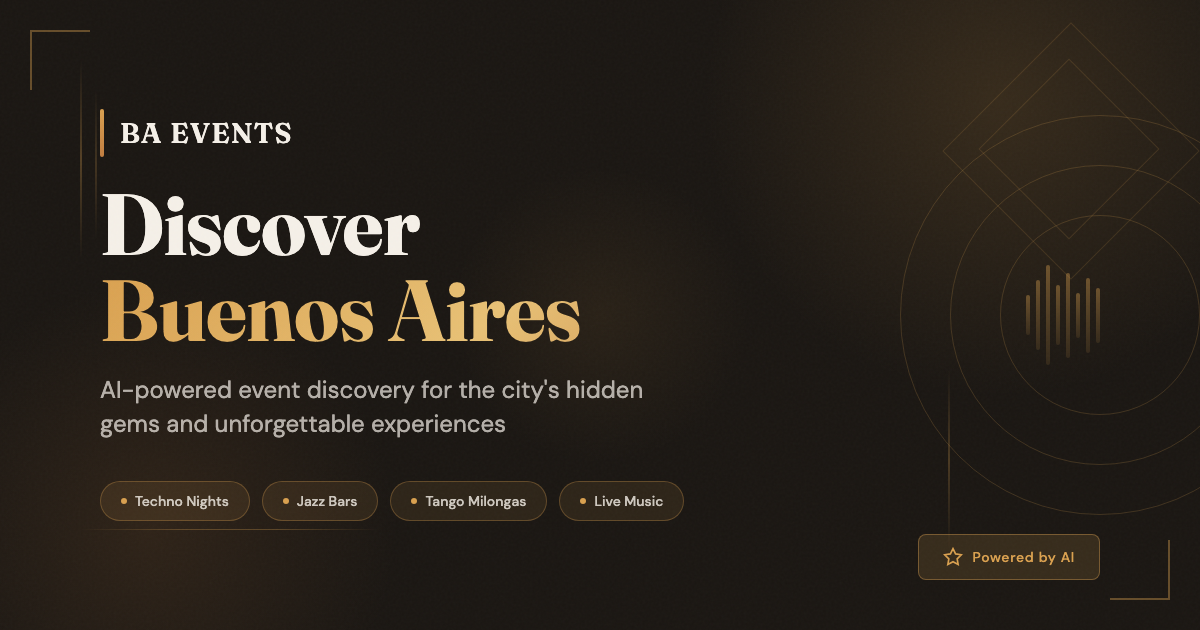
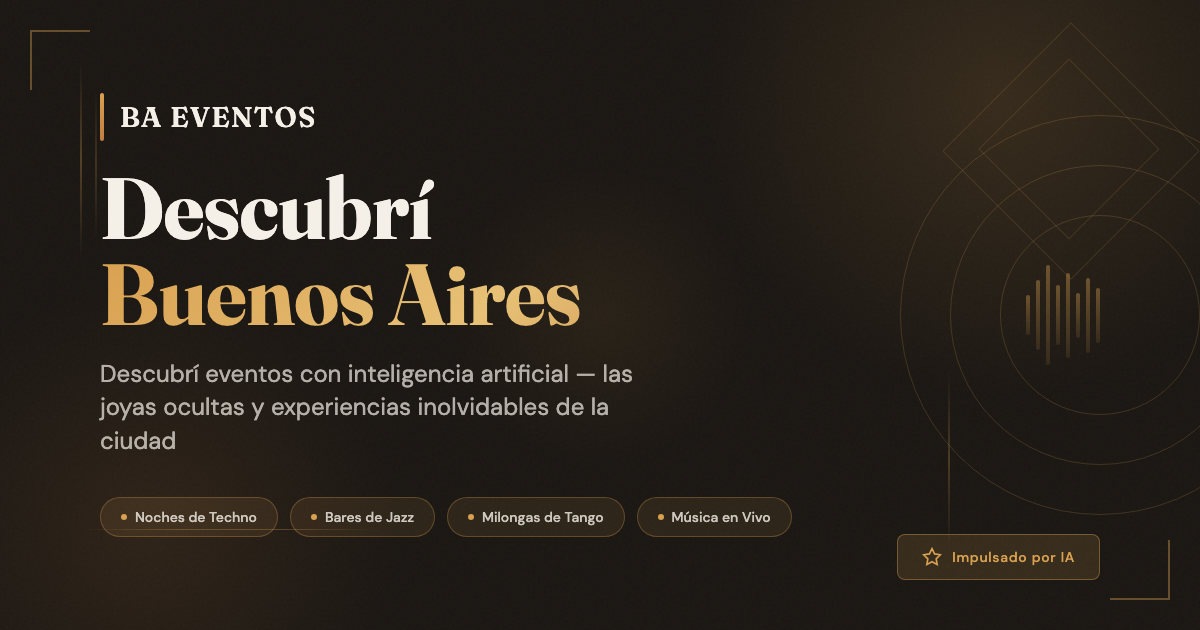
Rebrand to BA Eventos with Spanish metadata
- Change branding from "BA Events" to "BA Eventos" across all files
- Update domain from ba-events.app to baeventos.com
- Switch metadata to Spanish as default language (es_AR primary locale)
- Regenerate OG image with Spanish text and branding
- Update manifest.json, robots.txt, i18n files, MainLayout

🤖 Generated with [Claude Code](https://claude.com/claude-code)

diff --git a/src/routes/__root.tsx b/src/routes/__root.tsx
@@ -43,28 +43,28 @@ export const Route = createRootRoute({
       // Core meta tags
       { charSet: 'utf-8' },
       { name: 'viewport', content: 'width=device-width, initial-scale=1' },
-      { title: 'BA Events - Discover Buenos Aires' },
-      { name: 'description', content: 'AI-powered event discovery for Buenos Aires. Find techno nights, jazz bars, tango milongas, and more.' },
+      { title: 'BA Eventos - Descubrí Buenos Aires' },
+      { name: 'description', content: 'Descubrí eventos en Buenos Aires con inteligencia artificial. Encontrá noches de techno, bares de jazz, milongas de tango, y más.' },
       { name: 'theme-color', content: '#1a1612' },
 
       // Open Graph tags
       { property: 'og:type', content: 'website' },
-      { property: 'og:site_name', content: 'BA Events' },
-      { property: 'og:title', content: 'BA Events - Discover Buenos Aires' },
-      { property: 'og:description', content: 'AI-powered event discovery for Buenos Aires. Find techno nights, jazz bars, tango milongas, and more.' },
-      { property: 'og:image', content: 'https://ba-events.app/og-image.png' },
-      { property: 'og:url', content: 'https://ba-events.app' },
-      { property: 'og:locale', content: 'en_US' },
-      { property: 'og:locale:alternate', content: 'es_AR' },
+      { property: 'og:site_name', content: 'BA Eventos' },
+      { property: 'og:title', content: 'BA Eventos - Descubrí Buenos Aires' },
+      { property: 'og:description', content: 'Descubrí eventos en Buenos Aires con inteligencia artificial. Encontrá noches de techno, bares de jazz, milongas de tango, y más.' },
+      { property: 'og:image', content: 'https://baeventos.com/og-image.png' },
+      { property: 'og:url', content: 'https://baeventos.com' },
+      { property: 'og:locale', content: 'es_AR' },
+      { property: 'og:locale:alternate', content: 'en_US' },
 
       // Twitter Card tags
       { name: 'twitter:card', content: 'summary_large_image' },
-      { name: 'twitter:title', content: 'BA Events - Discover Buenos Aires' },
-      { name: 'twitter:description', content: 'AI-powered event discovery for Buenos Aires. Find techno nights, jazz bars, tango milongas, and more.' },
-      { name: 'twitter:image', content: 'https://ba-events.app/og-image.png' },
+      { name: 'twitter:title', content: 'BA Eventos - Descubrí Buenos Aires' },
+      { name: 'twitter:description', content: 'Descubrí eventos en Buenos Aires con inteligencia artificial. Encontrá noches de techno, bares de jazz, milongas de tango, y más.' },
+      { name: 'twitter:image', content: 'https://baeventos.com/og-image.png' },
     ],
     links: [
-      { rel: 'canonical', href: 'https://ba-events.app' },
+      { rel: 'canonical', href: 'https://baeventos.com' },
       { rel: 'preconnect', href: 'https://fonts.googleapis.com' },
       { rel: 'preconnect', href: 'https://fonts.gstatic.com', crossOrigin: 'anonymous' },
       { rel: 'stylesheet', href: 'https://fonts.googleapis.com/css2?family=Fraunces:ital,opsz,wght@0,9..144,300;0,9..144,400;0,9..144,500;0,9..144,600;0,9..144,700;1,9..144,400&family=DM+Sans:ital,wght@0,300;0,400;0,500;0,600;1,400&display=swap' },

diff --git a/src/components/MainLayout.tsx b/src/components/MainLayout.tsx
@@ -179,7 +179,7 @@ export function MainLayout({ children }: MainLayoutProps) {
             <div className="absolute -inset-1 bg-gradient-to-r from-primary/20 via-primary/10 to-transparent blur-sm" />
             <div className="relative flex items-center gap-2">
               <div className="w-1 h-6 bg-gradient-to-b from-primary to-accent rounded-full" />
-              <span className="font-display text-lg font-semibold">BA Events</span>
+              <span className="font-display text-lg font-semibold">BA Eventos</span>
             </div>
           </div>
         </Link>
@@ -218,7 +218,7 @@ export function MainLayout({ children }: MainLayoutProps) {
             </div>
             <div className={`overflow-hidden transition-all duration-300 ${collapsed ? 'lg:w-0 lg:opacity-0' : 'w-auto opacity-100'}`}>
               <span className="font-display text-lg font-semibold text-foreground whitespace-nowrap">
-                BA Events
+                BA Eventos
               </span>
             </div>
           </Link>
